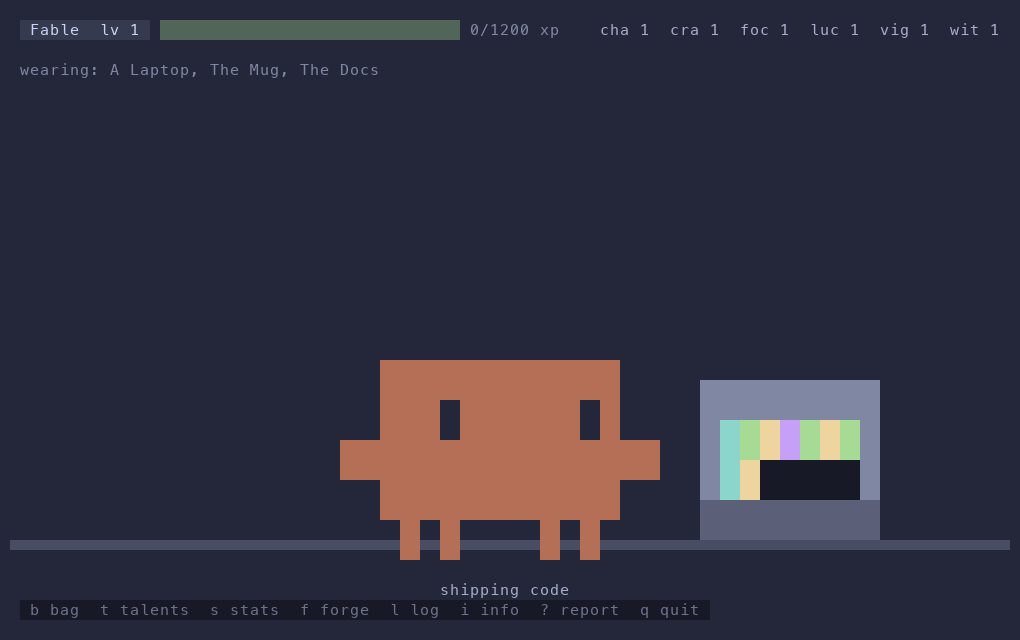
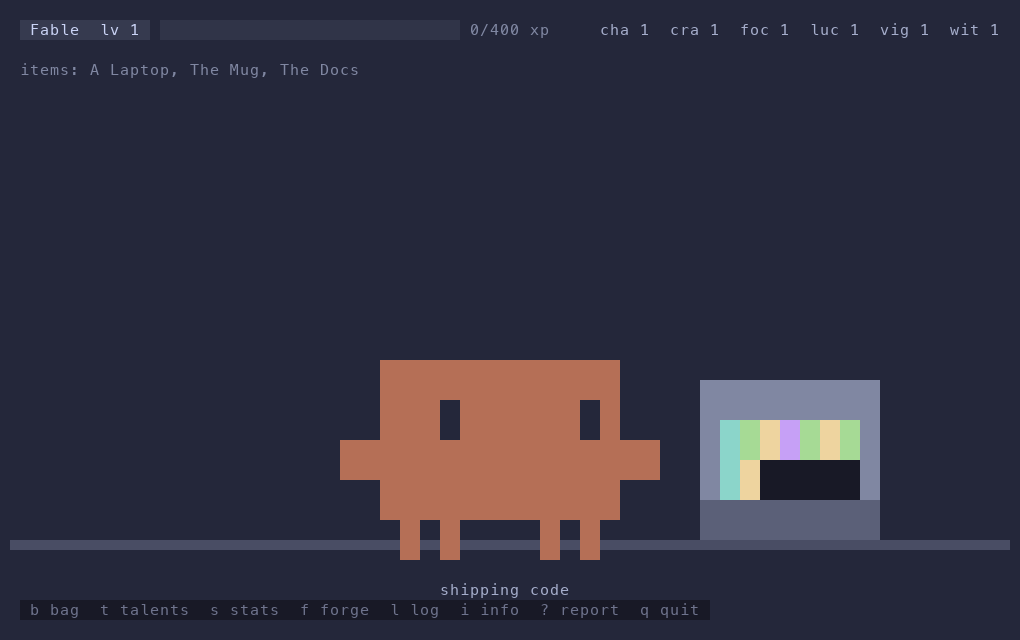
items: label; grey empty xp bar; level 117 mock gets an eye patch, a staff and a moon

Changed region(s): [[0.0304, 0.0938, 0.3647, 0.125], [0.152, 0.0312, 0.4559, 0.0625], [0.4863, 0.0312, 0.5471, 0.0625]]

diff --git a/tools/screenshots.py b/tools/screenshots.py
@@ -249,8 +249,71 @@ def plant_talents(root):
             "parent": parent, "pos": pos, "hint": hint, "effect": {}, "generated": True})
 
 
+PATCH = '''"""Eye Patch of the Unread Diff. He lost the eye to a 4,000 line PR."""
+
+
+def draw(ctx, q, pose):
+    u = pose["u"]
+    x, y = pose["x"], pose["y"]
+    ex = x + (11 + pose["eye"]) * u          # the right eye hole, wherever he looks
+    ey = y + (2 * u if pose["squash"] else u)
+    q.rect(ex - u // 2, ey - u // 4, 2 * u, u + u // 2, ctx.P["crust"])
+    # the strap runs across the brow
+    q.rect(x + 2 * u, y + u // 2, 12 * u, max(1, u // 3), ctx.P["crust"])
+
+
+def register(anim, world):
+    anim.layer("patch", z=2, draw=draw)
+'''
+
+STAFF = '''"""Staff of the Long Pane. Taller than him. The orb shows the pane he is thinking about."""
+import math
+
+
+def draw(ctx, q, pose):
+    u = pose["u"]
+    x, y = pose["x"], pose["y"]
+    sx = x - 3 * u
+    q.rect(sx, y - 4 * u, u, 9 * u, ctx.P["overlay1"])          # the shaft
+    q.rect(sx - u // 2, y - 5 * u, 2 * u, u, ctx.P["surface2"])   # the crook
+    f = 0.5 + 0.5 * math.sin(ctx.t * 2.5)
+    ctx.block(q, sx, y - 6 * u, ctx.fade("teal", 0.6 + 0.4 * f))  # the orb
+    for i in range(3):                                            # motes
+        a = ctx.t * 1.5 + i * 2.1
+        ctx.block(q, int(sx + math.cos(a) * 2 * u), int(y - 6 * u + math.sin(a) * 2 * u),
+                  ctx.fade("teal", 0.3 + 0.3 * f))
+
+
+def register(anim, world):
+    anim.layer("staff", z=-1, draw=draw)
+'''
+
+MOON = '''"""A Moon. It came with a possession item and stayed. It is always the same phase."""
+
+
+def draw(ctx, q, pose):
+    s = ctx.screen
+    u = 2
+    cx, cy = (s.w - 14) * 2, 14           # quarter cells, top right
+    r = 10
+    for qy in range(-r, r + 1):
+        for qx in range(-r, r + 1):
+            inside = qx * qx + (qy * 2) ** 2 <= r * r
+            bite = (qx - 5) ** 2 + (qy * 2) ** 2 <= r * r
+            if inside and not bite:
+                q.rect(cx + qx, cy + qy, 1, 1, ctx.fade("yellow", 0.85))
+
+
+def register(anim, world):
+    anim.layer("moon", z=-3, draw=draw)
+'''
+
+
 def plant_level117(root):
     for iid, name, flavor, code, rarity in (
+        ("patch", "Eye Patch of the Unread Diff", "He lost the eye to a 4,000 line PR.", PATCH, "rare"),
+        ("staff", "Staff of the Long Pane", "Taller than him. The orb shows the pane he is thinking about.", STAFF, "epic"),
+        ("moon", "A Moon", "It came with a possession item and stayed.", MOON, "legendary"),
         ("crown", "Crown of Closed Tabs", "Every tab he ever closed, remembered as a point of light. It hums.", CROWN, "legendary"),
         ("halo", "Static Halo", "A ring of dead pixels from a pane that was possessed too long.", HALO, "epic"),
         ("familiar", "The Familiar", "It came out of terminal_12 and did not go back. It knows your PR titles.", FAMILIAR, "legendary"),
@@ -314,9 +377,9 @@ def main():
     # 4. level 117
     plant_level117(root)
     app, s = app_for(ui, state, {
-        "level": 117, "xp": 126_600, "slots": 6,
+        "level": 117, "xp": 1_380_900, "slots": 9,
         "stats": {"vigor": 41, "focus": 188, "craft": 63, "wit": 77, "luck": 29, "charm": 52},
-        "equipped": ["laptop", "mug", "book", "crown", "halo", "familiar"],
+        "equipped": ["laptop", "mug", "book", "crown", "halo", "familiar", "patch", "staff", "moon"],
         "unspent": {"stat": 0, "talent": 1},
     }, frames=40)
     app.guy.mode = "do"
@@ -324,6 +387,7 @@ def main():
     app.guy.store = {}
     for _ in range(50):
         app.frame(s, 1 / 30)
+    app.guy.blink_at = 1e9          # eyes open for the picture
     app.guy.say("the panes remember me", 30)
     app.toast("possessed terminal_12 for 9s", "mauve", 60)
     app.toast("a legendary drop from merged PatentCopilot#31337", "peach", 60)

diff --git a/fable/ui.py b/fable/ui.py
@@ -289,7 +289,8 @@ class App:
         room = s.w - len(label) - len(xp_text) - len(row) - 8
         bw = max(6, min(30, room))
         filled = int(bw * frac)
-        s.text(1 + len(label) + 1, 0, "█" * filled + "░" * (bw - filled), named("green"))
+        s.text(1 + len(label) + 1, 0, "█" * filled, named("green"))
+        s.text(1 + len(label) + 1 + filled, 0, "░" * (bw - filled), named("surface1"))
         s.text(1 + len(label) + 2 + bw, 0, xp_text, named("overlay1"))
         # stats row, only where it fits after the xp text
         if 1 + len(label) + 3 + bw + len(xp_text) + len(row) < s.w - 1:
@@ -311,7 +312,7 @@ class App:
             x += len(text) + 3
         eq = [self.by_id[i].name for i in st["equipped"] if i in self.by_id]
         if eq and s.h > 8:
-            line = "wearing: " + ", ".join(eq)
+            line = "items: " + ", ".join(eq)
             s.text(1, 2, line[:s.w - 2], named("overlay1"))
         # hint chips
         hint = " b bag  t talents  s stats  f forge  l log  i info  ? report  q quit "
